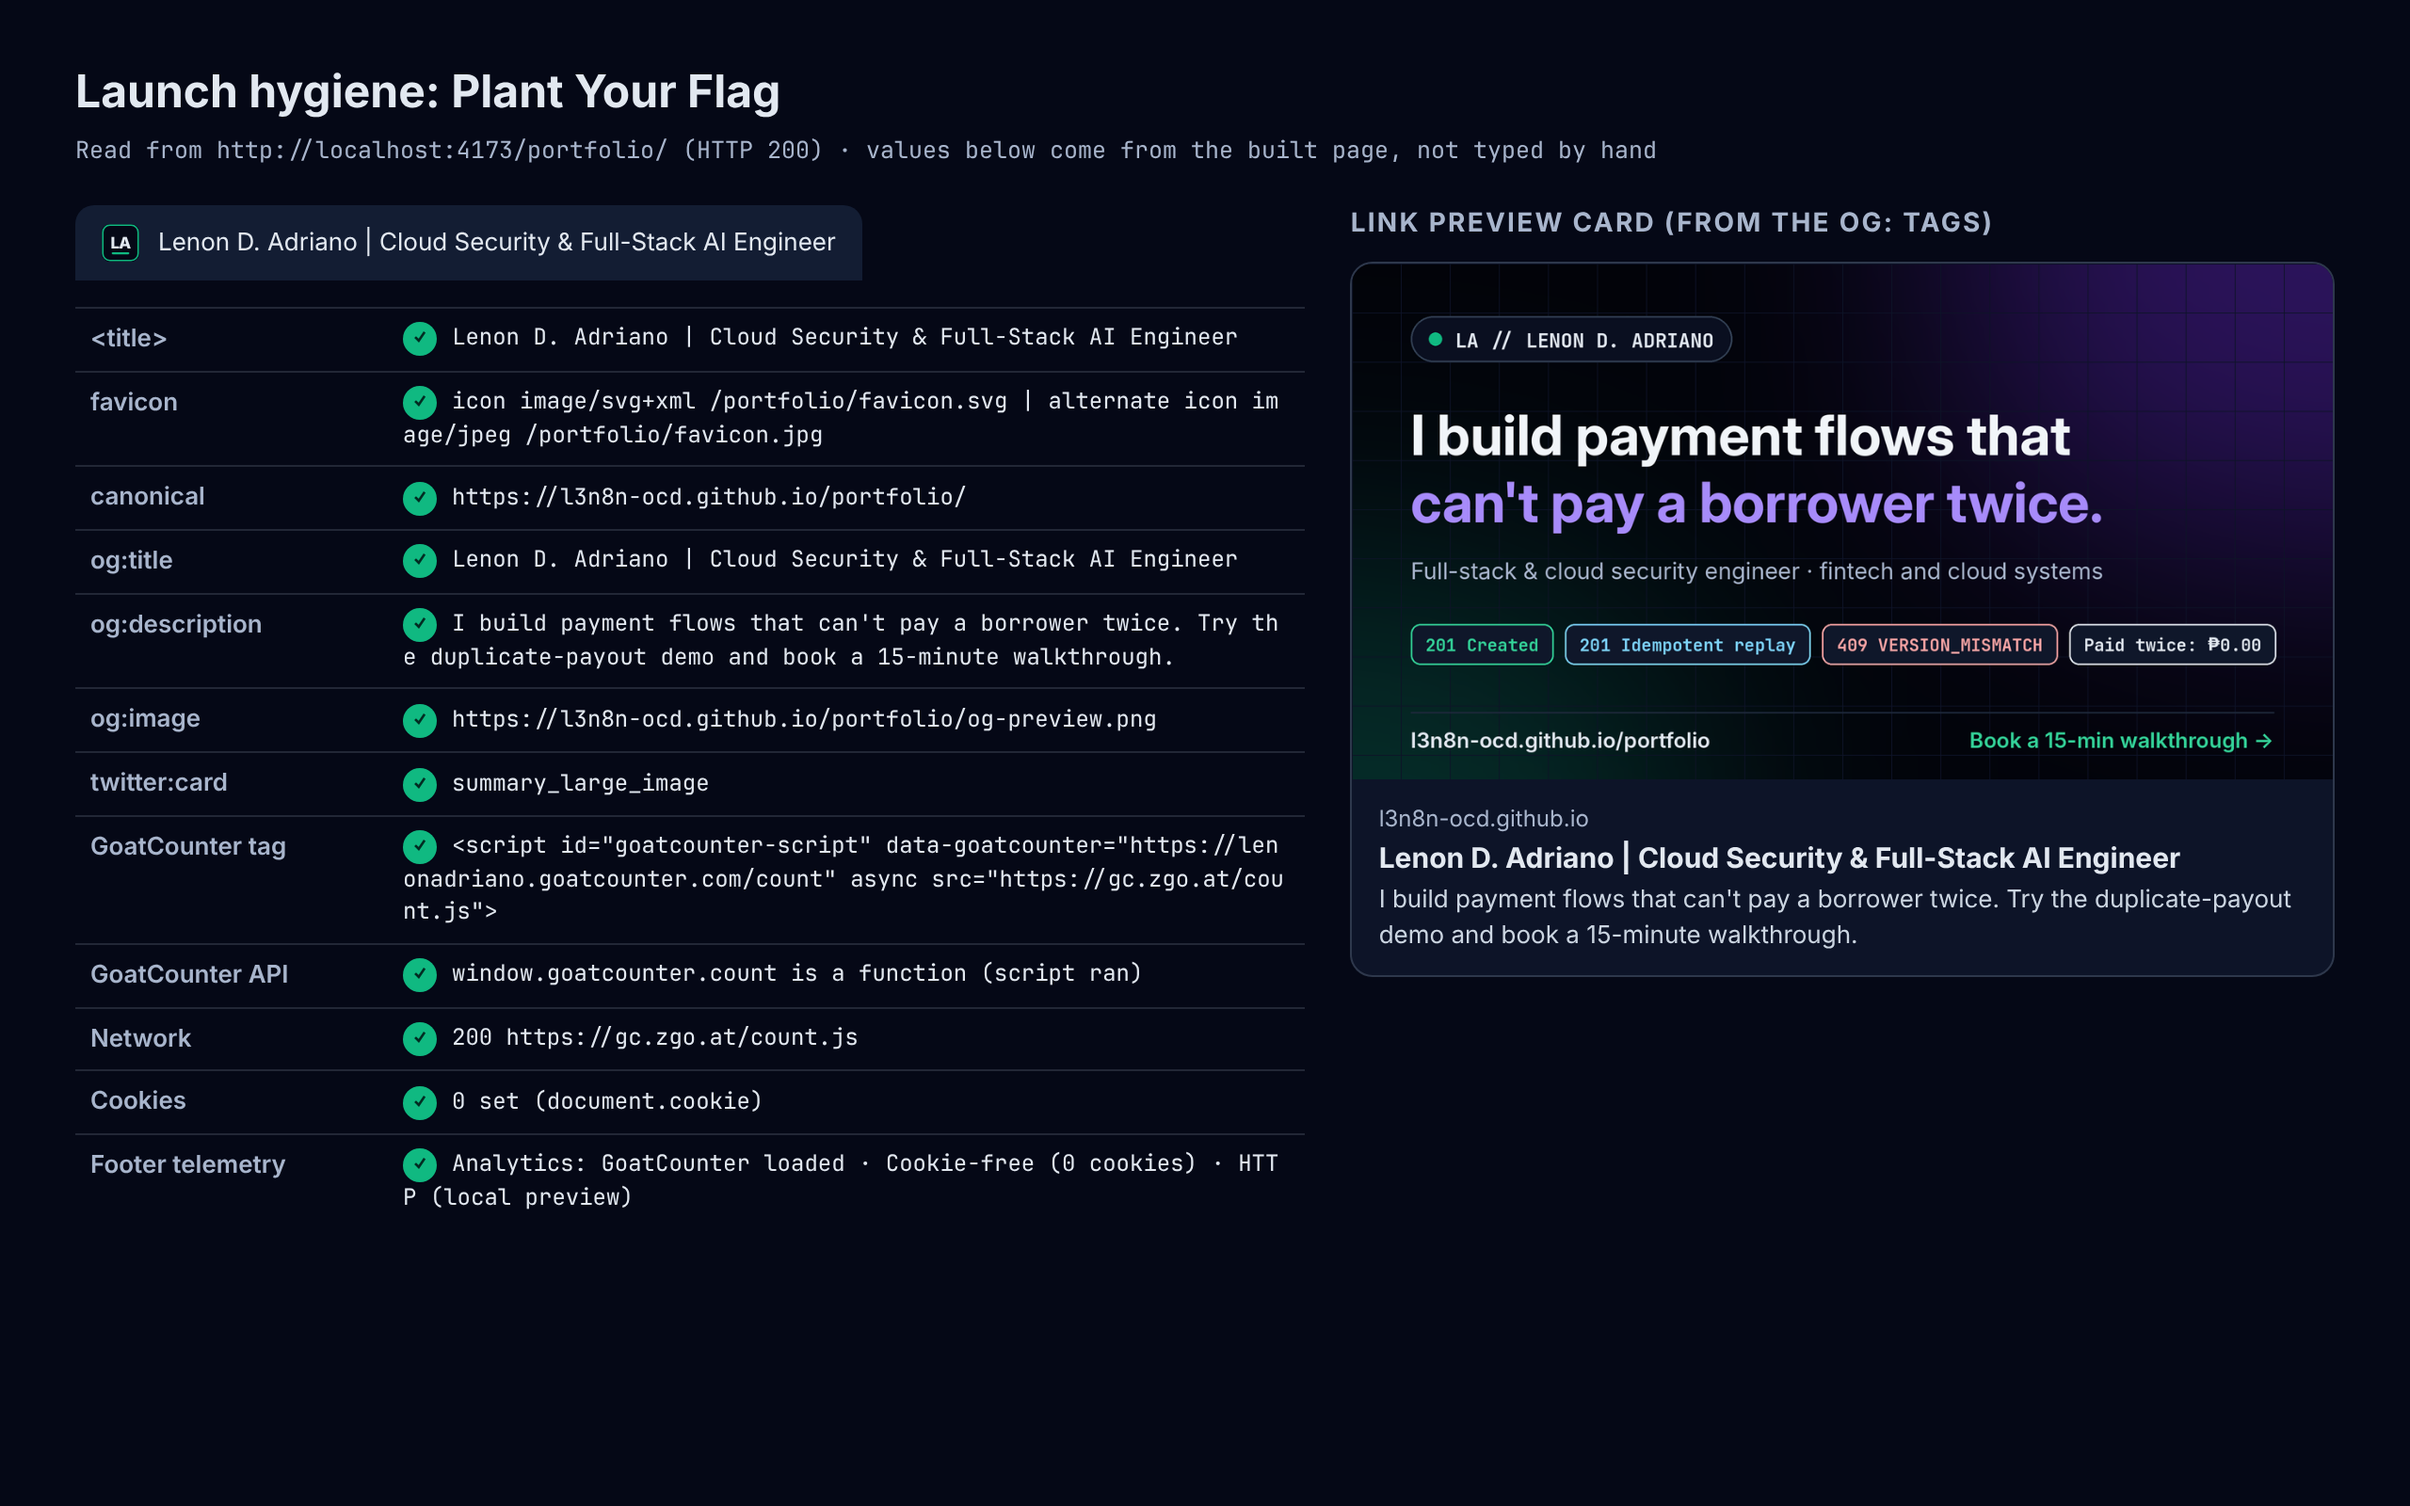
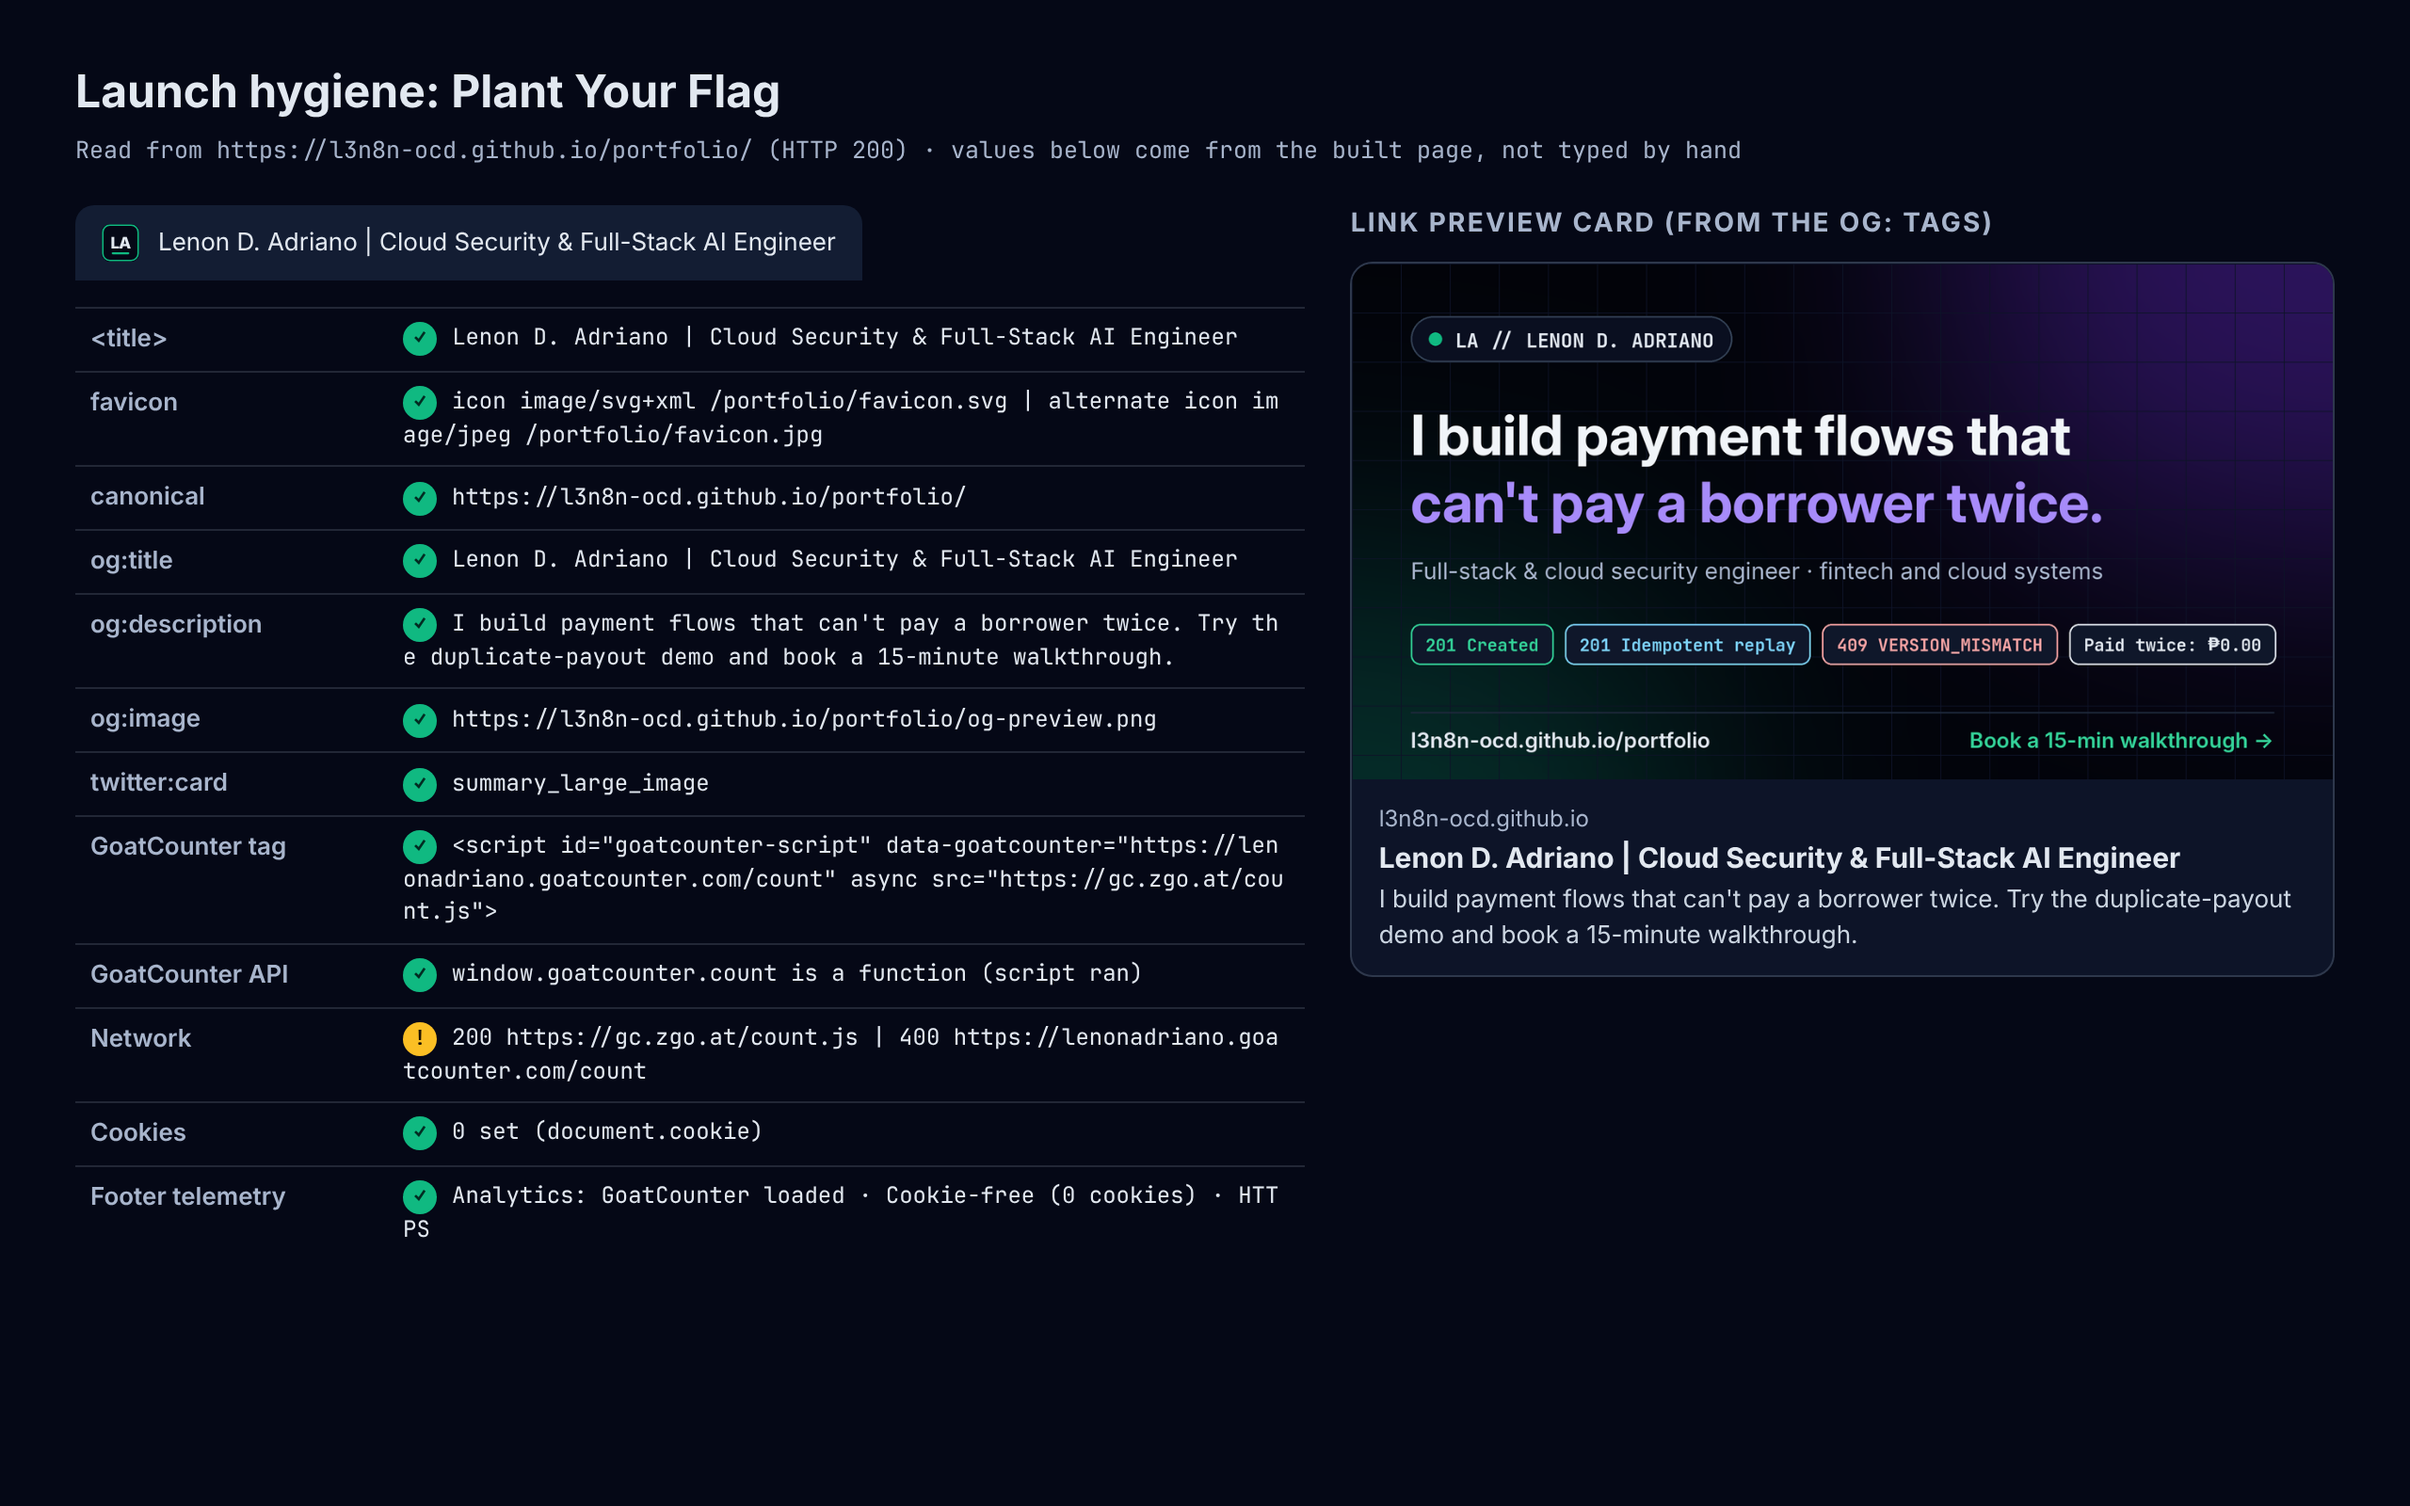
docs(launch): record the live HTTPS check and recapture launch screenshots from the live site

diff --git a/docs/PLANT_YOUR_FLAG.md b/docs/PLANT_YOUR_FLAG.md
@@ -56,11 +56,13 @@ Checked on 2026-11-21. Anything not checked is marked TODO.
 | page views, section jumps, theme toggles, visits | the local counters above |
 
 **Verification** ([`flag-02-analytics-and-launch-hygiene.png`](./assets/launch-audit/flag-02-analytics-and-launch-hygiene.png)),
-read from the production build on `vite preview`:
+read from the live site:
 - the script tag is in the page;
 - `https://gc.zgo.at/count.js` answered `200`;
 - `window.goatcounter.count` is a function;
-- `document.cookie` holds 0 cookies.
+- `document.cookie` holds 0 cookies;
+- the page-view hit went to `lenonadriano.goatcounter.com/count` and got `400`, because the site does not exist
+  yet (below).
 
 In Chromium, a theme toggle moved the counter to 1, and so did a section jump.
 
@@ -94,7 +96,7 @@ not "Active": the page can check the first, but only the dashboard shows the sec
   button (CLAUDE.md §2).
 
 Proof: [`flag-01-footer-verified-badge.png`](./assets/launch-audit/flag-01-footer-verified-badge.png). It was
-captured at 1280 px and 2x; the badge measures 164×164 CSS px.
+captured on the live site at 1280 px and 2x; the badge measures 164×164 CSS px.
 
 ## 4 · Launch hygiene and the phone check
 
@@ -115,7 +117,7 @@ shows the tags and a link-preview card drawn from them.
 [`flag-03-mobile-final-check-375px.png`](./assets/launch-audit/flag-03-mobile-final-check-375px.png) shows the
 phone view.
 
-Screenshots 1 and 3 come from `vite preview`, so the footer reads `HTTP (local preview)`. The live check is §6.
+All three screenshots were taken on the live site (§6).
 
 ## 5 · Where this differs from the brief
 
@@ -129,4 +131,19 @@ Screenshots 1 and 3 come from `vite preview`, so the footer reads `HTTP (local p
 
 ## 6 · Live check after deploy
 
-TODO: filled in by the follow-up commit once GitHub Pages serves this build.
+Commit `8524e4e` deployed through "Deploy to GitHub Pages" (success) and was live about 45 s after the push. Then,
+against `https://l3n8n-ocd.github.io/portfolio/`:
+
+| Check | Result |
+| --- | --- |
+| Page | `200`, with `goatcounter-script` in the HTML |
+| `favicon.svg` | `200` |
+| Footer readout | `Analytics: GoatCounter loaded · Cookie-free (0 cookies) · HTTPS` |
+| GoatCounter requests | `200 https://gc.zgo.at/count.js`, `400 https://lenonadriano.goatcounter.com/count` (site not created yet) |
+| Badge link | `https://internship.flyrank.ai/verify?id=FR-D11-7F2E2-34A8A&first_name=Lenon`, `target="_blank"`, `rel="noopener noreferrer"`, 164×164 |
+| 375×812 | 0 px horizontal overflow |
+
+**Still open (Lenon):**
+1. Create the GoatCounter site `lenonadriano` (§2), then reload the live page and watch the dashboard.
+2. Confirm TLS 1.3 in Chrome DevTools → Security on your own machine (§1).
+3. If FlyRank gives you its own badge SVG, paste it into `FlyRankBadge.tsx` (§3).
